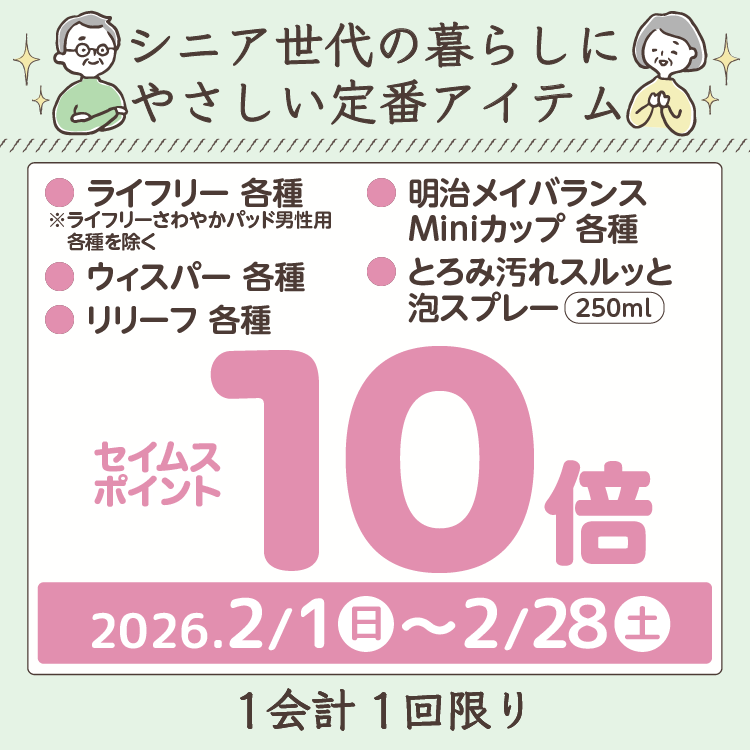
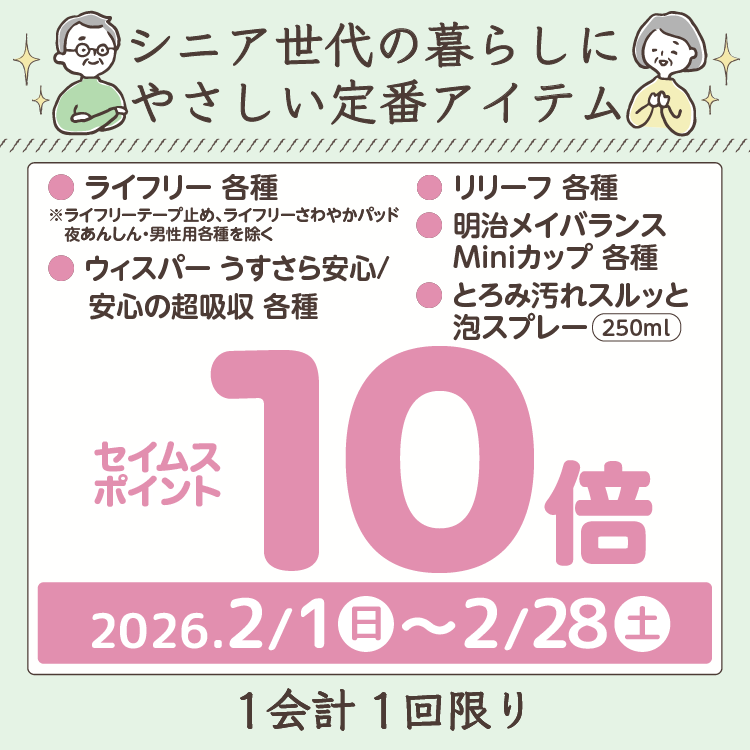
260130 清水 senior 修正

Changed region(s): [[0.0613, 0.2147, 0.92, 0.46]]

diff --git a/202602-senior/index.html b/202602-senior/index.html
@@ -173,11 +173,6 @@
                     class="btn_coupon mth02"
                     >クーポンはこちら</a
                   >
-                  <a
-                    href="https://drugstore.seims.co.jp/lp/202602-senior/work_cpn4216.html"
-                    class="btn_coupon mth03"
-                    >クーポンはこちら</a
-                  >
                 </div>
               </div>
               <div class="pd_item">
@@ -305,13 +300,8 @@
                     詳しくはこちら
                   </a>
                   <a
-                    href="https://drugstore.seims.co.jp/lp/202602-senior/work_cpn4215.html"
-                    class="btn_coupon mth02"
-                    >クーポンはこちら</a
-                  >
-                  <a
                     href="https://drugstore.seims.co.jp/lp/202602-senior/work_cpn4216.html"
-                    class="btn_coupon mth03"
+                    class="btn_coupon mth02"
                     >クーポンはこちら</a
                   >
                 </div>
@@ -384,11 +374,6 @@
                     詳しくはこちら
                   </a>
                   <a
-                    href="https://drugstore.seims.co.jp/lp/202602-senior/work_cpn4215.html"
-                    class="btn_coupon mth02"
-                    >クーポンはこちら</a
-                  >
-                  <a
                     href="https://drugstore.seims.co.jp/lp/202602-senior/work_cpn4216.html"
                     class="btn_coupon mth03"
                     >クーポンはこちら</a
@@ -439,11 +424,6 @@
                   <a
                     href="https://drugstore.seims.co.jp/lp/202602-senior/work_cpn4215.html"
                     class="btn_coupon mth02"
-                    >クーポンはこちら</a
-                  >
-                  <a
-                    href="https://drugstore.seims.co.jp/lp/202602-senior/work_cpn4216.html"
-                    class="btn_coupon mth03"
                     >クーポンはこちら</a
                   >
                 </div>
@@ -508,11 +488,7 @@
                   >
                     詳しくはこちら
                   </a>
-                  <a
-                    href="https://drugstore.seims.co.jp/lp/202602-senior/work_cpn4215.html"
-                    class="btn_coupon mth02"
-                    >クーポンはこちら</a
-                  >
+
                   <a
                     href="https://drugstore.seims.co.jp/lp/202602-senior/work_cpn4216.html"
                     class="btn_coupon mth03"
@@ -615,11 +591,6 @@
                   >
                     詳しくはこちら
                   </a>
-                  <a
-                    href="https://drugstore.seims.co.jp/lp/202602-senior/work_cpn4215.html"
-                    class="btn_coupon mth02"
-                    >クーポンはこちら</a
-                  >
                   <a
                     href="https://drugstore.seims.co.jp/lp/202602-senior/work_cpn4216.html"
                     class="btn_coupon mth03"
